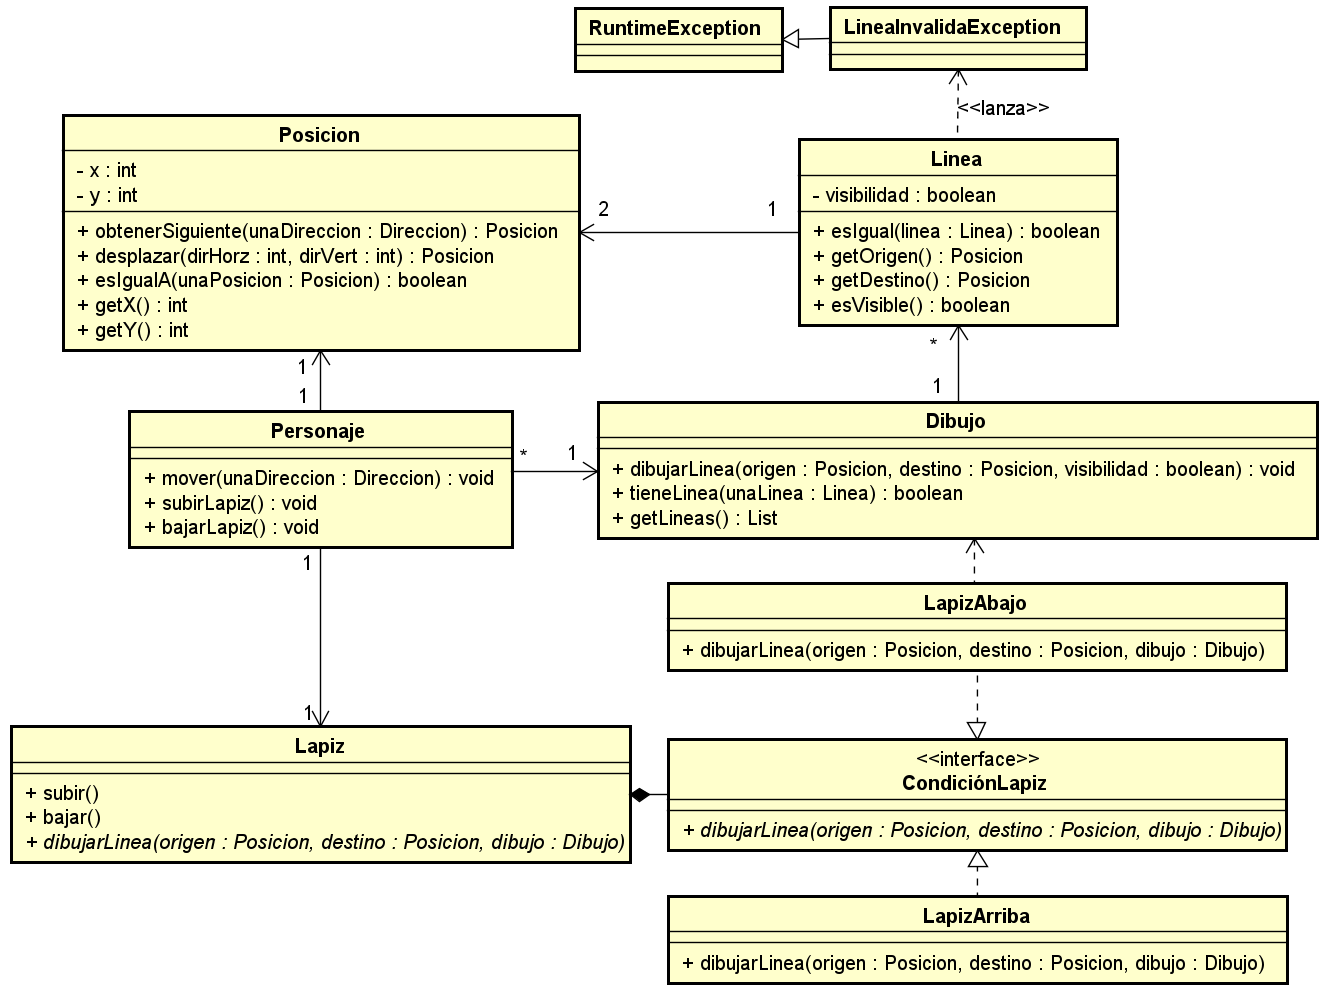
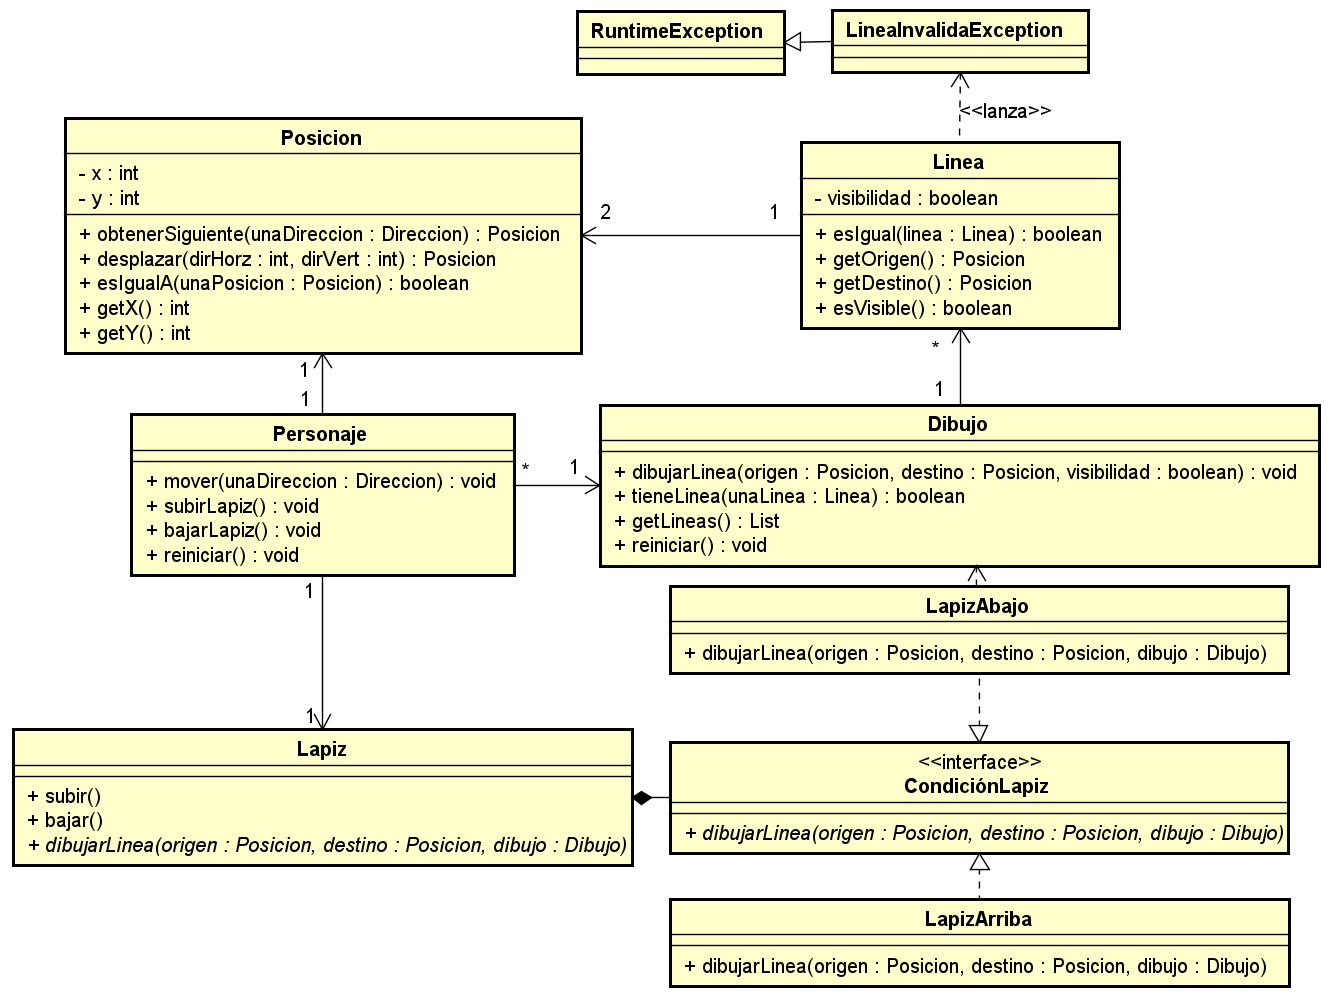
Agrego el botón de guardar algoritmo personalizado
Aunque es funcional, habría que limpiar el código e implementar que el mismo desaparezca/se deshabilite si el algoritmo está vacio y aparezca/se habilite en caso contrario.
Ahora LayoutBloques hereda de VBox y sus métodos no son más estáticos
Actualizo diagramas de clase.

Changed region(s): [[0.0309, 0.0, 1.0, 0.6868], [0.0, 0.718, 0.9894, 0.999]]

diff --git a/src/main/java/edu/fiuba/algo3/javafx/layouts/LayoutBloques.java b/src/main/java/edu/fiuba/algo3/javafx/layouts/LayoutBloques.java
@@ -10,30 +10,36 @@ import javafx.scene.control.Tooltip;
 import javafx.scene.image.ImageView;
 import javafx.scene.layout.VBox;
 
-public class LayoutBotonesAgregarBloques{
+public class LayoutBloques extends VBox{
 
     static int CANTIDAD_BLOQUES_COMPUESTOS = 3;
     static VBox contenido;
 
-    public static VBox crear(double altura) {
+    public LayoutBloques(double altura) {
 
         contenido = new VBox(10);
         ScrollPane sP = new ScrollPane(contenido);
         sP.setPrefViewportHeight(altura*3/4);
         sP.setMinViewportWidth(150);
-        VBox layoutBloques = new VBox();
 
 
-        Vista.agregarTitulo(layoutBloques, "Bloques");
-        layoutBloques.getChildren().add(sP);
+        Vista.agregarTitulo(this, "Bloques");
+        this.getChildren().add(sP);
 
-        LayoutBotonesAgregarBloques.agregarBotonesBloquesSimples();
-        LayoutBotonesAgregarBloques.agregarBotonesBloquesCompuestos();
-
-        return layoutBloques;
+        this.agregarBotonesBloquesSimples();
+        this.agregarBotonesBloquesCompuestos();
     }
 
-    public static void agregarBotonesBloquesCompuestos() {
+    public void agregarBotonBloque(String url, String nombre, Bloque unBloque){
+        contenido.getChildren().add(
+                BotonSimple.crearBotonSimple(
+                        new ImageView(url),
+                        new Tooltip(nombre),
+                        new BotonAgregarBloqueEventHandler(unBloque, nombre)
+                ));
+    }
+
+    public void agregarBotonesBloquesCompuestos() {
 
         contenido.getChildren().addAll(
 
@@ -57,7 +63,7 @@ public class LayoutBotonesAgregarBloques{
         );
     }
 
-    private static void agregarBotonesBloquesSimples() {
+    private void agregarBotonesBloquesSimples() {
 
         contenido.getChildren().addAll(
 
@@ -106,7 +112,6 @@ public class LayoutBotonesAgregarBloques{
             layoutBloques.getChildren().remove(layoutBloques.getChildren().size()-1);
         }
 
-        LayoutBotonesAgregarBloques.agregarBotonesBloquesCompuestos();
-
+        (new LayoutBloques(1000)).agregarBotonesBloquesCompuestos();
     }
 }

diff --git a/src/main/java/edu/fiuba/algo3/javafx/layouts/LayoutAlgoritmo.java b/src/main/java/edu/fiuba/algo3/javafx/layouts/LayoutAlgoritmo.java
@@ -2,23 +2,10 @@ package edu.fiuba.algo3.javafx.layouts;
 
 import edu.fiuba.algo3.javafx.SeleccionadorBloqueCompuesto;
 import edu.fiuba.algo3.javafx.Vista;
-import edu.fiuba.algo3.javafx.botones.BotonSimple;
 import edu.fiuba.algo3.modelo.AlgoBlocks;
 import edu.fiuba.algo3.modelo.Algoritmo;
-import javafx.beans.binding.Bindings;
-import javafx.beans.value.ChangeListener;
-import javafx.beans.value.ObservableValue;
-import javafx.event.ActionEvent;
-import javafx.event.EventHandler;
-import javafx.scene.Group;
-import javafx.scene.Scene;
-import javafx.scene.control.Button;
-import javafx.scene.control.Label;
 import javafx.scene.control.ScrollPane;
-import javafx.scene.control.TextField;
-import javafx.scene.layout.HBox;
 import javafx.scene.layout.VBox;
-import javafx.stage.Stage;
 
 public class LayoutAlgoritmo {
 

diff --git a/src/main/java/edu/fiuba/algo3/javafx/handlers/BotonEjecutarEventHandler.java b/src/main/java/edu/fiuba/algo3/javafx/handlers/BotonEjecutarEventHandler.java
@@ -2,7 +2,6 @@ package edu.fiuba.algo3.javafx.handlers;
 
 import edu.fiuba.algo3.javafx.layouts.LayoutDibujo;
 import edu.fiuba.algo3.modelo.AlgoBlocks;
-import edu.fiuba.algo3.modelo.bloque.Bloque;
 import javafx.event.ActionEvent;
 import javafx.event.EventHandler;
 
@@ -18,6 +17,7 @@ public class BotonEjecutarEventHandler implements EventHandler<ActionEvent> {
     @Override
     public void handle(ActionEvent actionEvent) {
         algoBlocks.ejecutarAlgoritmo();
+        layoutDibujo.reiniciar();
         layoutDibujo.graficarMovimientos(algoBlocks.getDibujo());
     }
 }

diff --git a/src/main/java/edu/fiuba/algo3/javafx/SeleccionadorBloqueCompuesto.java b/src/main/java/edu/fiuba/algo3/javafx/SeleccionadorBloqueCompuesto.java
@@ -1,6 +1,5 @@
 package edu.fiuba.algo3.javafx;
 
-import edu.fiuba.algo3.javafx.layouts.LayoutBotonesAgregarBloques;
 import edu.fiuba.algo3.modelo.SecuenciaBloques;
 import edu.fiuba.algo3.modelo.bloque.Bloque;
 import javafx.scene.control.ChoiceBox;
@@ -62,7 +61,7 @@ public class SeleccionadorBloqueCompuesto {
 
         choiceBox.getItems().add(descripcion);
 
-        LayoutBotonesAgregarBloques.reiniciarBloquesCompuestos(layoutBloques);
+        //LayoutBloques.reiniciarBloquesCompuestos(layoutBloques);
     }
 
 }

diff --git a/src/main/java/edu/fiuba/algo3/javafx/handlers/BotonReiniciarEventHandler.java b/src/main/java/edu/fiuba/algo3/javafx/handlers/BotonReiniciarEventHandler.java
@@ -1,12 +1,10 @@
 package edu.fiuba.algo3.javafx.handlers;
 
 import edu.fiuba.algo3.javafx.SeleccionadorBloqueCompuesto;
-import edu.fiuba.algo3.javafx.layouts.LayoutAlgoritmo;
 import edu.fiuba.algo3.javafx.layouts.LayoutDibujo;
 import edu.fiuba.algo3.modelo.AlgoBlocks;
 import javafx.event.ActionEvent;
 import javafx.event.EventHandler;
-import javafx.scene.layout.VBox;
 
 public class BotonReiniciarEventHandler implements EventHandler<ActionEvent> {
     private final AlgoBlocks algoBlocks;

diff --git a/src/main/java/edu/fiuba/algo3/javafx/layouts/LayoutEjecutarReiniciar.java b/src/main/java/edu/fiuba/algo3/javafx/layouts/LayoutEjecutarReiniciar.java
@@ -7,7 +7,6 @@ import edu.fiuba.algo3.modelo.AlgoBlocks;
 import javafx.scene.control.Tooltip;
 import javafx.scene.image.ImageView;
 import javafx.scene.layout.HBox;
-import javafx.scene.layout.VBox;
 
 public class LayoutEjecutarReiniciar {
     public static HBox crear(AlgoBlocks algoBlocks, LayoutDibujo layoutDibujo){

diff --git a/src/main/java/edu/fiuba/algo3/modelo/AlgoBlocks.java b/src/main/java/edu/fiuba/algo3/modelo/AlgoBlocks.java
@@ -2,8 +2,6 @@ package edu.fiuba.algo3.modelo;
 
 import edu.fiuba.algo3.modelo.bloque.Bloque;
 import edu.fiuba.algo3.modelo.bloque.BloquePersonalizado;
-import javafx.beans.InvalidationListener;
-import javafx.beans.Observable;
 
 public class AlgoBlocks{
     private final Dibujo dibujo = new Dibujo();

diff --git a/src/main/java/edu/fiuba/algo3/modelo/bloque/BloqueMovimiento.java b/src/main/java/edu/fiuba/algo3/modelo/bloque/BloqueMovimiento.java
@@ -1,9 +1,7 @@
 package edu.fiuba.algo3.modelo.bloque;
 
 import edu.fiuba.algo3.modelo.Direccion;
-import edu.fiuba.algo3.javafx.MostradorBloqueSimple;
 import edu.fiuba.algo3.modelo.Personaje;
-import javafx.scene.layout.VBox;
 
 public class BloqueMovimiento implements Bloque {
 

diff --git a/src/main/java/edu/fiuba/algo3/modelo/bloque/BloqueBajarLapiz.java b/src/main/java/edu/fiuba/algo3/modelo/bloque/BloqueBajarLapiz.java
@@ -1,8 +1,6 @@
 package edu.fiuba.algo3.modelo.bloque;
 
-import edu.fiuba.algo3.javafx.MostradorBloqueSimple;
 import edu.fiuba.algo3.modelo.Personaje;
-import javafx.scene.layout.VBox;
 
 public class BloqueBajarLapiz implements Bloque {
 

diff --git a/src/main/java/edu/fiuba/algo3/modelo/bloque/BloquePersonalizado.java b/src/main/java/edu/fiuba/algo3/modelo/bloque/BloquePersonalizado.java
@@ -1,8 +1,6 @@
 package edu.fiuba.algo3.modelo.bloque;
 
-import edu.fiuba.algo3.javafx.MostradorBloqueSimple;
 import edu.fiuba.algo3.modelo.Personaje;
-import javafx.scene.layout.VBox;
 
 import java.util.ArrayList;
 import java.util.List;

diff --git a/src/main/java/edu/fiuba/algo3/modelo/bloque/BloqueSubirLapiz.java b/src/main/java/edu/fiuba/algo3/modelo/bloque/BloqueSubirLapiz.java
@@ -1,8 +1,6 @@
 package edu.fiuba.algo3.modelo.bloque;
 
-import edu.fiuba.algo3.javafx.MostradorBloqueSimple;
 import edu.fiuba.algo3.modelo.Personaje;
-import javafx.scene.layout.VBox;
 
 public class BloqueSubirLapiz implements Bloque {
 

diff --git a/src/main/java/edu/fiuba/algo3/modelo/SecuenciaBloques.java b/src/main/java/edu/fiuba/algo3/modelo/SecuenciaBloques.java
@@ -1,7 +1,6 @@
 package edu.fiuba.algo3.modelo;
 
 import edu.fiuba.algo3.modelo.bloque.Bloque;
-import javafx.scene.layout.VBox;
 
 import java.util.ArrayList;
 import java.util.List;
